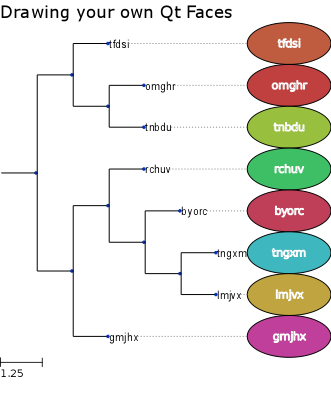
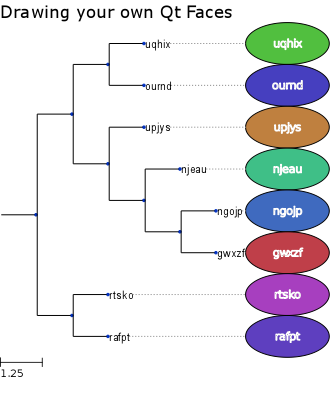
fixes in treeview examples

diff --git a/examples/treeview/face_positions.py b/examples/treeview/face_positions.py
@@ -1,5 +1,3 @@
-import sys
-
 from ete_dev import Tree, faces, TreeStyle, NodeStyle
 
 def mylayout(node):
@@ -18,7 +16,7 @@ def mylayout(node):
         faces.add_face_to_node(br2, node, column=0, position="branch-right")
 
 t = Tree()
-t.populate(int(sys.argv[1]))
+t.populate(10)
 
 # Margins, alignment, border, background and opacity can now be set for any face
 rs1 = faces.TextFace("branch-right2-with \n margins-and-borders", fsize=20, fgcolor="#009000")

diff --git a/examples/treeview/random_draw.py b/examples/treeview/random_draw.py
@@ -1,4 +1,3 @@
-import sys
 import os
 
 from ete_dev import Tree, faces
@@ -73,7 +72,7 @@ def tiny_ly(node):
     node.img_style["size"] = 2
     node.img_style["shape"] = "square"
     
-size = int(sys.argv[1])
+size = 15
 t = Tree()
 t.populate(size, reuse_names=False)
 

diff --git a/examples/phylogenies/phylotree_visualization.py b/examples/phylogenies/phylotree_visualization.py
@@ -34,5 +34,5 @@ recon_tree, events = genetree.reconcile(sptree)
 recon_tree.link_to_alignment(alg)
 
 # Visualize the reconciled tree
-recon_tree.render("phylotree.png", layout="phylogeny", w = 750)
+recon_tree.render("phylotree.png", w = 750)
 

diff --git a/examples/treeview/node_style.py b/examples/treeview/node_style.py
@@ -54,5 +54,6 @@ for l in t.iter_leaves():
 
 ts = TreeStyle()
 ts.layout_fn = layout
+ts.show_leaf_name = False
 t.render("node_style.png", w=400, tree_style=ts)
 

diff --git a/doc/tutorial/tutorial_phylogeny.rst b/doc/tutorial/tutorial_phylogeny.rst
@@ -436,5 +436,3 @@ tree to given sequences.
 :func:`PhyloNode.get_farthest_oldest_node` and
 :func:`PhyloNode.get_farthest_oldest_leaf` can be used for that
 purpose.
-
-
